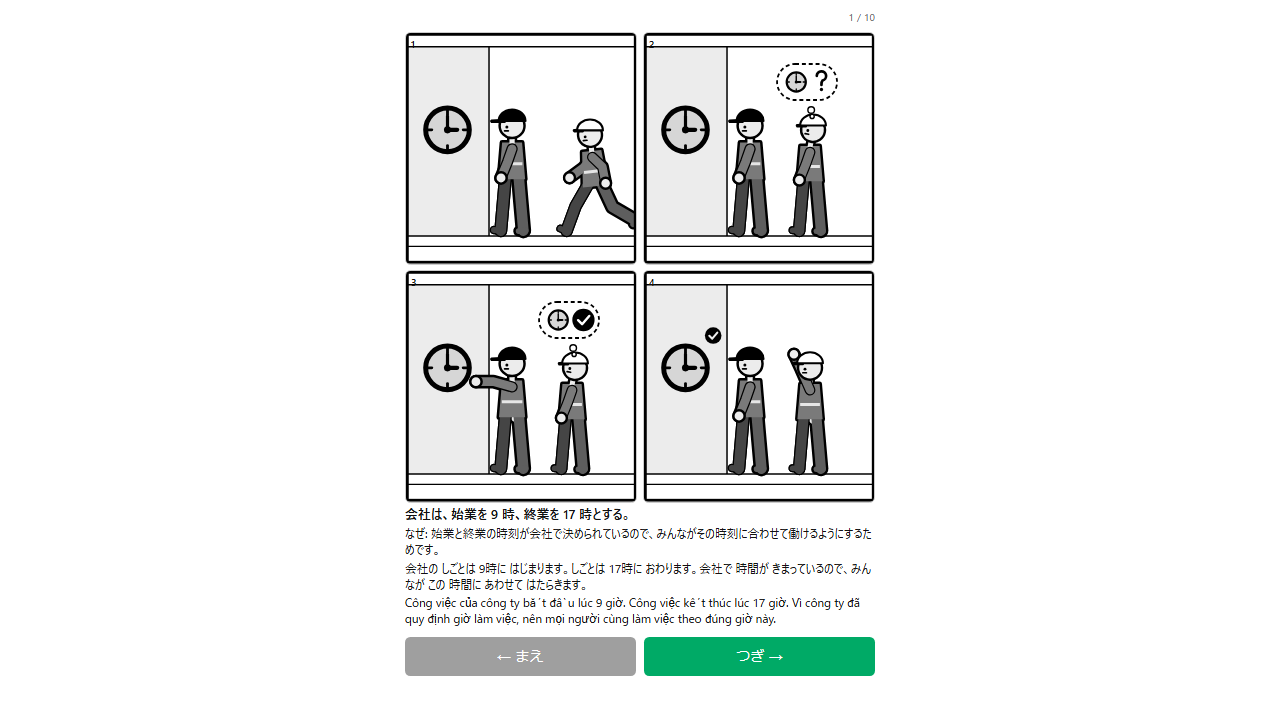
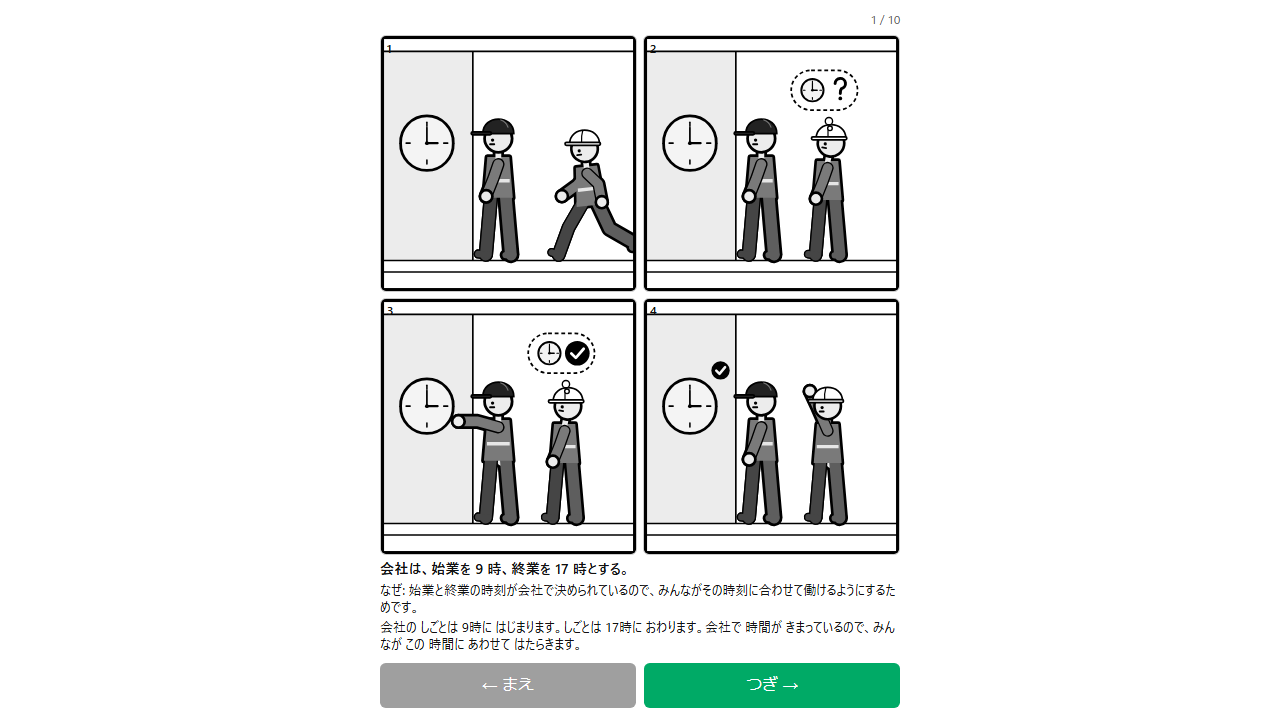
066 の前: README の新入社員の画面の写真 docs/img/6-read.png を、やさしい日本語だけの今の画面で撮り直した（前の写真は 11/5 の決定より前に撮ったもので、カードの下にベトナム語の訳が写っていた）。撮る道具に、名前を並べた写真だけを撮り直す SHOTS_ONLY と、閲覧の画面にベトナム語の字が写っていないかの検査を足した。ほかの 5 枚は変えていない。制作記録に 1 行足した

Changed region(s): [[0.2812, 0.0306, 0.7188, 1.0]]

diff --git a/e2e/readme-shots.spec.ts b/e2e/readme-shots.spec.ts
@@ -5,7 +5,7 @@ import { freshTenant, sqlFile } from "./helpers/ok";
 // README の画面の写真（126）。架空の会社の種データ（demo/seed.sql）で、横長の 6 枚を docs/img に撮る。
 // 入口・経路・閲覧は架空の会社の署名済みのカードをそのまま撮る。カード・確認待ち・署名は、署名済みのカードしか無いので、
 // 使い捨ての架空のテナントに同じカードの中身と、そのカードの本物の確かめる AI の結果を写して撮る。API は呼ばない。
-// ふだんの録画では流さない。撮る: SHOTS=1 npx playwright test e2e/readme-shots.spec.ts（絵が決まったら撮り直す。※取り直し）
+// ふだんの録画では流さない。撮る: SHOTS=1 npx playwright test e2e/readme-shots.spec.ts（絵が決まったら撮り直す。※取り直し）。1 枚だけなら SHOTS_ONLY=6-read も付ける
 const OUT = "docs/img";
 
 interface Card {
@@ -16,6 +16,9 @@ interface Card {
 
 /** 縦に収まらない画面は、全体が横長の 1 枚に入るまで縮めてから撮る（写真のためだけ。画面そのものは変えない） */
 const shot = async (page: Page, name: string) => {
+  // SHOTS_ONLY=6-read のように名前を並べると、その写真だけを撮り直す（ほかの写真は変えない）
+  const only = process.env.SHOTS_ONLY?.split(",");
+  if (only && !only.includes(name)) return;
   await page.waitForTimeout(800);
   // 縮めると折り返しが変わるので、収まるまで 3 回まで測り直す
   for (let k = 0; k < 3; k++) {
@@ -98,5 +101,7 @@ test("README の画面の写真を 6 枚撮る", async ({ page, request }) => {
   // 6. 閲覧: 新入社員に届く、署名済みのカード
   await page.goto(`/#/t/demo/read`);
   await expect(page.getByTestId("read-card")).toBeVisible();
+  // 言葉はやさしい日本語だけ（11/5 の決定）。ベトナム語の字が写っていないことを見てから撮る
+  await expect(page.getByTestId("read-card")).not.toContainText(/[ăâđêôơưạảấầẩẫậắằẳẵặẹẻẽếềểễệỉịọỏốồổỗộớờởỡợụủứừửữựỳỵỷỹ]/i);
   await shot(page, "6-read");
 });

diff --git a/docs/build-log.md b/docs/build-log.md
@@ -204,3 +204,4 @@
 → 08:05 066（途中） 11/6 の測り方と環境を決めて記録した（decisions.md）。① を交差にし（国籍ごとに半分ずつ・同じ項目を 2 回見せない）、1 人 1 台で受ける画面と見せるものを結ぶ画面を作った（検査 3 本足して 506 本と画面の通し 1 本が通る）。当日の 8 枚を本番へ写し、監査の鎖をつなぎ直して検査が通った
 → 08:20 066（途中） 答えの欄を 2 つ（日本語の欄と自分の言葉の欄）にし、採点にどちらの欄で判定したかの印を足した。① の時間は絵と画像を先に読み込んで、画面に出た時から数える。送れない答えは端末の中に残して送り直す。国籍ごとの結果はまとめた数だけ（1 人の国籍は「その他」）。理由は decisions.md（画面の通し 3 本を足して 7 本が通る）
 → 08:30 066（途中） ① の見せるものに表紙を重ねた。読み込み終わるまで「はじめる」を押せず、押すと紙芝居をめくるように上へ抜け（カードも文も同じ 0.35 秒）、抜けきった時から数える。「分かった」のあとは中身を隠して答えを書く。理由は decisions.md（画面の通し 1 本を足して 8 本が通る）
+→ 08:52 066（途中） README の新入社員の画面の写真（6-read.png）を、やさしい日本語だけの今の画面で撮り直した。11/5 の決定より前の写真にはベトナム語の訳が写っていたため。撮る道具に 1 枚だけ撮り直す SHOTS_ONLY と、ベトナム語の字が写っていないかの検査を足した（ほかの 5 枚は変えていない）
